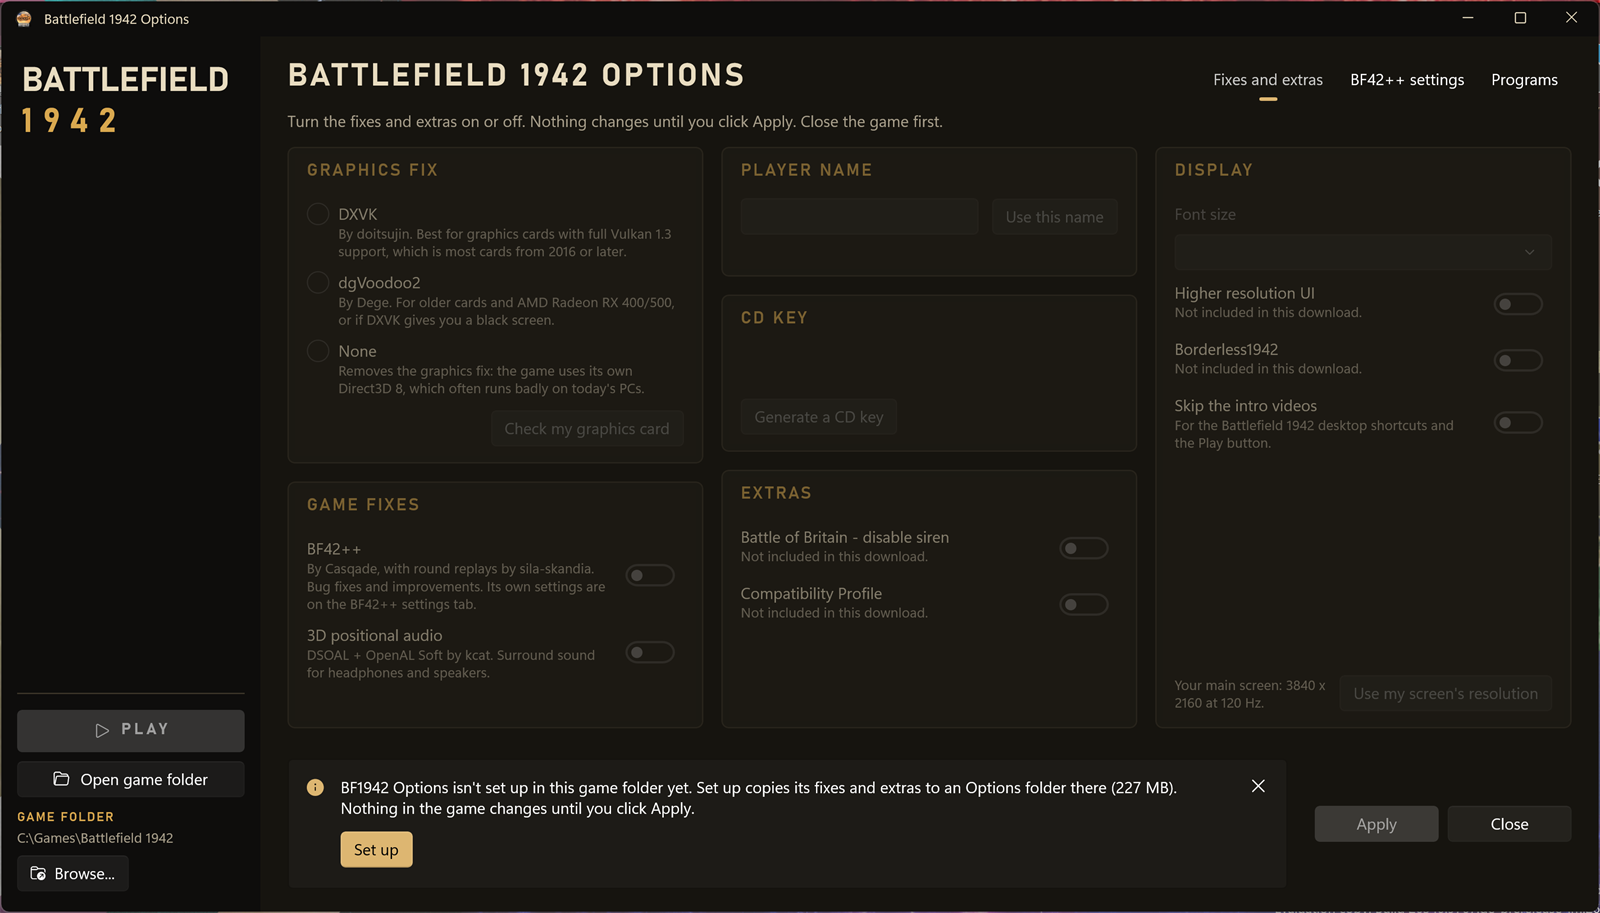
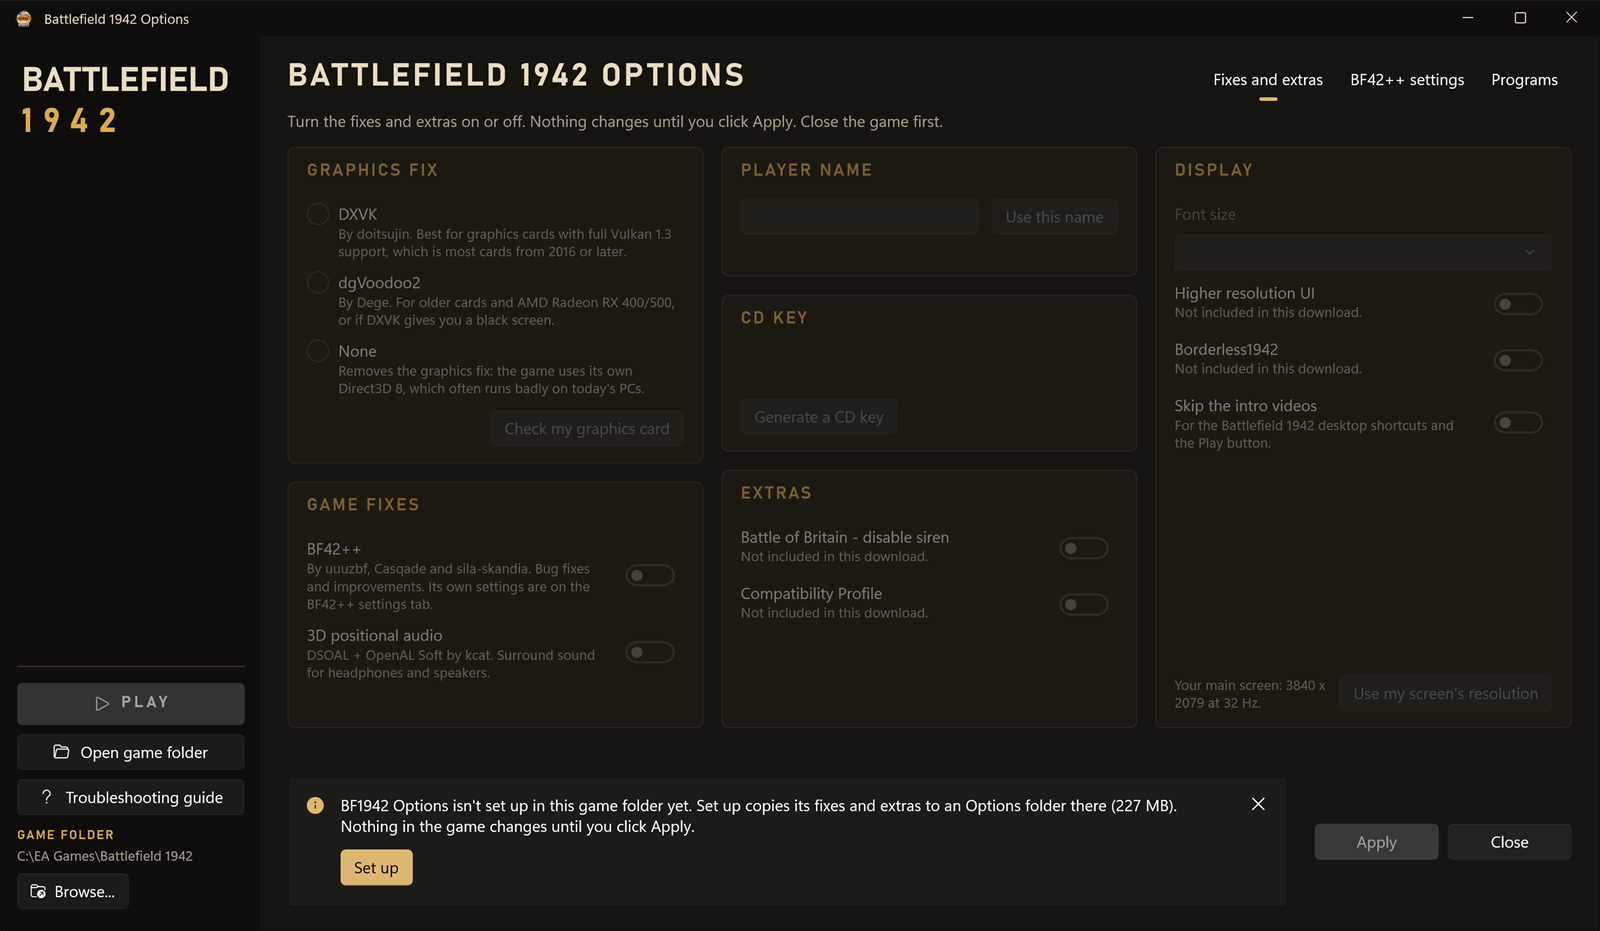
Credit BF42++ to uuuzbf, Casqade and sila-skandia, stop copying bf42++BlackScreen.exe, and new screenshots
BF42++ v2.1 from Casqade/bf42plusplus merges sila-skandia's round replays. Only its bf42++.exe loader uses
bf42++BlackScreen.exe, not the dsound.dll the installers set up, so the app no longer copies or removes it. The
round replays tooltip says a new file is made each time you join a server and names replay.bfstats.io.

diff --git a/MainWindow.xaml b/MainWindow.xaml
@@ -184,7 +184,7 @@
                                     <Grid.ColumnDefinitions><ColumnDefinition /><ColumnDefinition Width="Auto" /></Grid.ColumnDefinitions>
                                     <StackPanel>
                                         <TextBlock x:Name="BF42ppTitle" Text="BF42++" Style="{StaticResource Setting}" />
-                                        <TextBlock Style="{StaticResource Hint}" Text="By Casqade, with round replays by sila-skandia. Bug fixes and improvements. Its own settings are on the BF42++ settings tab." />
+                                        <TextBlock Style="{StaticResource Hint}" Text="By uuuzbf, Casqade and sila-skandia. Bug fixes and improvements. Its own settings are on the BF42++ settings tab." />
                                     </StackPanel>
                                     <ToggleSwitch x:Name="BF42pp" AutomationProperties.Name="BF42++" Grid.Column="1" Style="{StaticResource Switch}" Toggled="Changed" />
                                 </Grid>

diff --git a/BF42ppSettings.cs b/BF42ppSettings.cs
@@ -1,6 +1,6 @@
 // BF42++'s own settings, which the BF42++ settings tab shows: their names, defaults and ranges, and how they are
 // read from and saved to bf42++.ini in the game folder. The names, defaults and ranges are BF42++'s own
-// (src/settings.h in github.com/sila-skandia/bf42plus); the labels and explanations are written for players.
+// (src/settings.h in github.com/Casqade/bf42plusplus); the labels and explanations are written for players.
 //
 // BF42++ reads the file when the game starts, and writes it when a setting is changed in the game's console
 // (plus.<name>), so the app only saves it while the game is closed. Only the lines of the settings that changed
@@ -198,7 +198,7 @@ static partial class Game
         new("screenshotFormat", "GRAPHICS AND FILES", "Screenshot format", PlusKind.Choice, "png",
             "The file type of your screenshots: PNG (sharp, bigger files) or JPG (smaller files).", Choices: new[] { "png", "jpg" }),
         new("recordReplays", "GRAPHICS AND FILES", "Record round replays", PlusKind.Switch, "off",
-            "Records every round you play online to the replays folder in the game folder, one file per server you join, to watch later in a replay viewer such as play.bfstats.io. You can also turn it on or off in the console with plus.recordReplays 1 or 0. By sila-skandia."),
+            "Records every round you play online to the replays folder in the game folder, in a new file each time you join a server, to watch later in a replay viewer such as replay.bfstats.io. You can also turn it on or off in the console with plus.recordReplays 1 or 0. By sila-skandia."),
         new("disableArchiveOnlyMode", "GRAPHICS AND FILES", "Load unpacked game files", PlusKind.Switch, "off",
             "Lets the game load unpacked files from the game folder as well as its .rfa archives, like the BF1942_r debug version does. For modders; leave it off to play."),
     };

diff --git a/Game.cs b/Game.cs
@@ -457,11 +457,7 @@ static partial class Game
             // dsound_next.dll before dsound.dll, so a copy that fails can't turn the other switch off.
             string? dsound = to.BF42pp ? LibBF42pp + @"\dsound.dll" : to.Audio ? LibAudio + @"\dsound_next.dll" : null;
             string? dsoundNext = to.BF42pp && to.Audio ? LibAudio + @"\dsound_next.dll" : null;
-            if (to.BF42pp)
-            {
-                Copy(LibBF42pp + @"\bf42++BlackScreen.exe", "bf42++BlackScreen.exe");
-                CopyIfMissing(LibBF42pp + @"\bf42++.ini", "bf42++.ini");
-            }
+            if (to.BF42pp) CopyIfMissing(LibBF42pp + @"\bf42++.ini", "bf42++.ini");
             if (to.Audio)
             {
                 Copy(LibAudio + @"\dsoal-aldrv.dll", "dsoal-aldrv.dll");
@@ -472,8 +468,8 @@ static partial class Game
             // Only the copies from the library go: a dsound.dll or dsound_next.dll of the player's own stays
             if (dsound == null) RemoveIfFrom("dsound.dll", LibBF42pp + @"\dsound.dll", LibAudio + @"\dsound_next.dll");
             if (dsoundNext == null) RemoveIfFrom("dsound_next.dll", LibAudio + @"\dsound_next.dll");
-            if (!to.BF42pp) Remove("bf42++BlackScreen.exe");   // bf42++.ini stays, with the player's settings
-            if (!to.Audio) Remove("dsoal-aldrv.dll");          // alsoft.ini stays too
+            // bf42++.ini stays when BF42++ is turned off, with the player's settings, and so does alsoft.ini
+            if (!to.Audio) Remove("dsoal-aldrv.dll");
         }
 
         if (to.Font != from.Font && to.Font >= 0)

diff --git a/README.md b/README.md
@@ -31,7 +31,7 @@ One window, in a Battlefield 1942 theme, with three tabs: **Fixes and extras**, 
 | Player name | **Use this name** works like Setup's *Set your player name* in BF1942-Installer: it copies the profile the game starts with to `Settings\Profiles\<name>` (spaces and characters a folder name can't have become `_`), sets the name in it and makes it the one the game starts with |
 | CD key | **Generate a CD key**, only when no valid key, or a public one shared online, is registered |
 
-**BF42++ settings** has BF42++'s own settings from `bf42++.ini`, in cards: HUD, chat and console, 3D map markers, controls, performance, and graphics and files (screenshot format, round replays, unpacked game files). Each is a switch, a list or a text box, and the buddy colours are swatches in the order BF42++ hands them out: **+** adds one from a palette (or any colour with **Other colour...**), and clicking a swatch moves it or takes it out. Pointing at a setting's name shows what it does and BF42++'s default. The list, with BF42++'s defaults and ranges, is in `BF42ppSettings.cs`; it follows [sila-skandia/bf42plus](https://github.com/sila-skandia/bf42plus) (Casqade's bf42++ with round replays). Apply writes only the settings that changed, each in place of its own line, so the file's comments, buddy colours and ignore list stay. A colour or number BF42++ wouldn't take keeps Apply off until it is fixed. When the game folder has no `bf42++.ini`, the tab shows the library's copy, which Apply puts there.
+**BF42++ settings** has BF42++'s own settings from `bf42++.ini`, in cards: HUD, chat and console, 3D map markers, controls, performance, and graphics and files (screenshot format, round replays, unpacked game files). Each is a switch, a list or a text box, and the buddy colours are swatches in the order BF42++ hands them out: **+** adds one from a palette (or any colour with **Other colour...**), and clicking a swatch moves it or takes it out. Pointing at a setting's name shows what it does and BF42++'s default. The list, with BF42++'s defaults and ranges, is in `BF42ppSettings.cs`; it follows [Casqade/bf42plusplus](https://github.com/Casqade/bf42plusplus) (BF42++ by uuuzbf, Casqade and sila-skandia). Apply writes only the settings that changed, each in place of its own line, so the file's comments, buddy colours and ignore list stay. A colour or number BF42++ wouldn't take keeps Apply off until it is fixed. When the game folder has no `bf42++.ini`, the tab shows the library's copy, which Apply puts there.
 
 The left side has **Play**, **Join** (when the installer has a server shortcut), **Join our Discord** (when it has a Discord invite), **Open game folder** and the **Troubleshooting guide**, and the game folder with **Browse...** to pick another one. With Borderless1942 on, **Play** and **Join** start the game through it, like its desktop shortcut. The app runs as administrator, but it starts the game, folders and links as the signed-in user.
 
